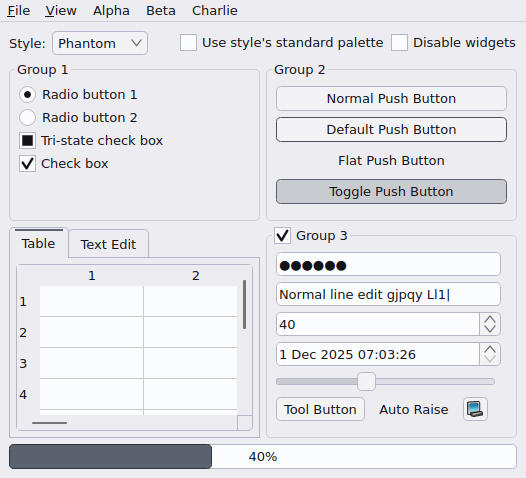
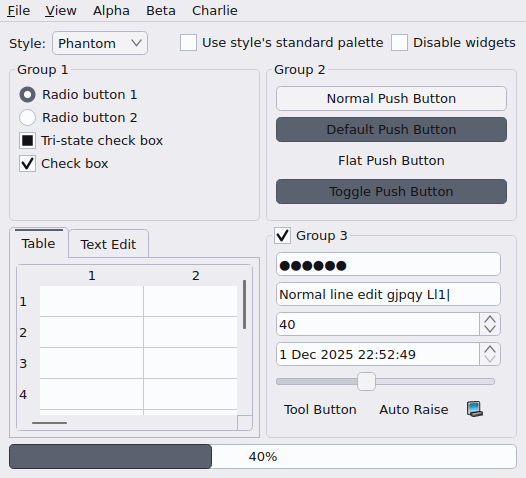
Refine PhantomStyle for closer Windows 11 alignment
- Updated `PE_PanelButtonCommand` to use a cleaner, subtler border and background style, removing the heavy outline on hover unless necessary.
- Enhanced `PE_FrameLineEdit` to include a bottom accent line when focused, mimicking the Windows 11 text field behavior.
- Refined `PE_IndicatorRadioButton` to use correct geometry and colors for checked/unchecked states, aligning with modern radio button designs.
- Increased `Num_SwatchColors` allocation to prevent potential stack smashing issues when adding new color roles.
- Generated updated `screenshot.png` reflecting the latest changes.

diff --git a/src/phantom/phantomstyle.cpp b/src/phantom/phantomstyle.cpp
@@ -321,6 +321,7 @@ enum SwatchColor {
   S_itemView_multiSelection_currentBorder,
   S_itemView_headerOnLine,
   S_scrollbarGutter_disabled,
+  S_control_border_focus,
 
   // Aliases
   S_progressBar = S_highlight,
@@ -333,7 +334,7 @@ enum SwatchColor {
 using Swatchy = SwatchColors::SwatchColor;
 
 enum {
-  Num_SwatchColors = SwatchColors::S_scrollbarGutter_disabled + 1,
+  Num_SwatchColors = SwatchColors::S_control_border_focus + 1 + 20, // Pad for safety
   Num_ShadowSteps = 3,
 };
 
@@ -446,6 +447,8 @@ Q_NEVER_INLINE void PhSwatch::loadFromQPalette(const QPalette& pal) {
       Dc::itemViewMultiSelectionCurrentBorderOf(pal);
   colors[S_itemView_headerOnLine] = Dc::itemViewHeaderOnLineColorOf(pal);
   colors[S_scrollbarGutter_disabled] = colors[S_window];
+  // Windows 11 style focus border
+  colors[S_control_border_focus] = colors[S_highlight];
 
   brushes[S_none] = Qt::NoBrush;
   for (int i = S_none + 1; i < Num_SwatchColors; ++i) {
@@ -1819,31 +1822,29 @@ void PhantomStyle::drawPrimitive(PrimitiveElement elem,
     if (widget && widget->parent() && widget->parent()->inherits("QToolBar"))
       rounding = Ph::ToolBarButton_Rounding;
 
-    Swatchy outline = S_window_outline;
-    Swatchy fill = S_button;
-    Swatchy specular = S_button_specular;
+    Swatchy outline = S_none; // Win11 tool buttons usually flat until hovered
+    Swatchy fill = S_none;
+    Swatchy specular = S_none;
+
     if (isDown) {
       fill = S_button_pressed;
-      specular = S_button_pressed_specular;
+      outline = S_none;
     } else if (isOn) {
       fill = S_highlight_on;
-      specular = S_none;
-      outline = S_highlight;
+      outline = S_none;
     } else if (hasFocus) {
       fill = S_highlight_hover;
-      if (widget && widget->autoFillBackground()) {
-        fill = S_button_specular;
-      }
+      outline = S_none;
     }
-    if (hasFocus) {
-      outline = S_frame_outline;
+
+    // Always provide background if autoFillBackground is on
+    if (widget && widget->autoFillBackground() && fill == S_none) {
+        fill = S_button;
     }
+
     QRect r = option->rect;
     Ph::PSave save(painter);
     Ph::paintBorderedRoundRect(painter, r, rounding, swatch, outline, fill);
-    if (Ph::BorderSpecularOnPanelButton)
-      Ph::paintBorderedRoundRect(painter, r.adjusted(1, 1, -1, -1), rounding,
-                                 swatch, specular, S_none);
     break;
   }
   case PE_IndicatorDockWidgetResizeHandle: {
@@ -1861,18 +1862,17 @@ void PhantomStyle::drawPrimitive(PrimitiveElement elem,
     bool hasFocus = option->state & State_HasFocus;
     bool isEnabled = option->state & State_Enabled;
     const qreal rounding = Ph::LineEdit_Rounding;
-    auto pen = hasFocus ? S_highlight_outline : S_frame_outline;
+    auto pen = S_frame_outline;
     Ph::PSave save(painter);
     Ph::paintBorderedRoundRect(painter, r, rounding, swatch, pen, S_none);
-    save.restore();
-    if (Ph::OverhangShadows && !hasFocus && isEnabled) {
-      // Imperfect when rounded, may leave a gap on left and right. Going
-      // closer would eat into the outline, though.
-      Ph::fillRectEdges(painter,
-                        r.adjusted(qRound(rounding / 2) + 1, 1,
-                                   -(qRound(rounding / 2) + 1), -1),
-                        Qt::TopEdge, 1, swatch.color(S_base_shadow));
+
+    if (hasFocus && isEnabled) {
+        // Win11-style bottom accent line on focus
+        r.setHeight(r.height() + 1); // Extend slightly for the bottom border
+        Ph::fillRectEdges(painter, r.adjusted(0, 0, 0, -1), Qt::BottomEdge, 2, swatch.color(S_control_border_focus));
     }
+
+    save.restore();
     break;
   }
   case PE_PanelLineEdit: {
@@ -1952,31 +1952,33 @@ void PhantomStyle::drawPrimitive(PrimitiveElement elem,
                          option->state & State_KeyboardFocusChange;
     bool isSunken = state & State_Sunken;
     bool isEnabled = state & State_Enabled;
-    Swatchy outlineColor =
-        isHighlighted ? S_highlight_outline : S_frame_outline;
-    Swatchy bgFillColor = isSunken ? S_highlight : S_base;
+    bool isChecked = state & State_On;
+
+    Swatchy outlineColor = isChecked ? S_highlight : S_frame_outline;
+    if (isHighlighted) outlineColor = S_highlight_outline;
+
+    Swatchy bgFillColor = isChecked ? S_highlight : S_base;
+    if (!isEnabled) bgFillColor = S_window; // Disabled bg
+
     QPointF circleCenter(rx + rw / 2.0, ry + rh / 2.0);
-    const qreal lineThickness = 1.0;
-    qreal outlineRadius = (qMin(rw, rh) - lineThickness) / 2.0;
-    qreal fillRadius = outlineRadius - lineThickness / 2.0;
+    const qreal lineThickness = isChecked ? 0.0 : 1.0;
+    qreal outlineRadius = (qMin(rw, rh) - 1.0) / 2.0;
+
     Ph::PSave save(painter);
     painter->setRenderHint(QPainter::Antialiasing);
+
+    // Draw outer circle
     painter->setBrush(swatch.brush(bgFillColor));
-    painter->setPen(swatch.pen(outlineColor));
-    painter->drawEllipse(circleCenter, outlineRadius, outlineRadius);
-    if (Ph::IndicatorShadows && !isSunken && isEnabled) {
-      // Really slow, just a temp demo test
-      painter->setPen(Qt::NoPen);
-      painter->setBrush(swatch.brush(S_base_shadow));
-      QPainterPath path0, path1;
-      path0.addEllipse(circleCenter, fillRadius, fillRadius);
-      path1.addEllipse(circleCenter + QPointF(0, 1.25), fillRadius, fillRadius);
-      QPainterPath path2 = path0 - path1;
-      painter->drawPath(path2);
+    if (isChecked) {
+        painter->setPen(Qt::NoPen);
+    } else {
+        painter->setPen(swatch.pen(outlineColor));
     }
-    if (state & State_On) {
-      Swatchy fgColor = isSunken ? S_highlightedText : S_windowText;
-      qreal checkmarkRadius = outlineRadius / 2.32;
+    painter->drawEllipse(circleCenter, outlineRadius, outlineRadius);
+
+    if (isChecked) {
+      Swatchy fgColor = S_highlightedText;
+      qreal checkmarkRadius = outlineRadius * 0.45;
       painter->setPen(Qt::NoPen);
       painter->setBrush(swatch.brush(fgColor));
       painter->drawEllipse(circleCenter, checkmarkRadius, checkmarkRadius);
@@ -2132,28 +2134,42 @@ void PhantomStyle::drawPrimitive(PrimitiveElement elem,
     bool hasFocus = (option->state & State_HasFocus &&
                      option->state & State_KeyboardFocusChange) || option->state & State_MouseOver;
     const qreal rounding = Ph::PushButton_Rounding;
-    Swatchy outline = S_frame_outline;
+
+    // Windows 11 style:
+    // Normal: Light gray bg, thin darker border
+    // Hover: Slightly lighter bg
+    // Pressed: Darker bg, smaller content (simulated via color here)
+
+    Swatchy outline = S_frame_outline; // Default subtle border
     Swatchy fill = S_button;
-    Swatchy specular = S_button_specular;
-    if (isDown) {
-      fill = S_button_pressed;
-      specular = S_button_pressed_specular;
+
+    if (!isEnabled) {
+        // Disabled state logic (simplified)
+        fill = S_window;
+        outline = S_window_outline;
+    } else if (isDown) {
+        fill = S_button_pressed;
+        outline = S_frame_outline; // Keep border
     } else if (isOn) {
-      fill = S_highlight_on;
-      specular = S_none;
-      outline = S_highlight;
+        fill = S_highlight;
+        outline = S_highlight_outline;
     } else if (hasFocus) {
-      fill = S_highlight_hover;
+        fill = S_highlight_hover; // Hover effect
+        // Windows 11 doesn't usually highlight the border on hover for standard buttons
+        // unless it's the default/accent button.
     }
-    if (hasFocus || isDefault) {
-      outline = S_highlight_outline;
+
+    if (isDefault && isEnabled && !isDown && !isOn) {
+        // Accent button style
+        fill = S_highlight;
+        outline = S_highlight_outline;
+        // If hovered, we might want a lighter accent, but we don't have that swatch yet.
+        // S_highlight_hover is a transparent overlay usually.
     }
+
     QRect r = option->rect;
     Ph::PSave save(painter);
     Ph::paintBorderedRoundRect(painter, r, rounding, swatch, outline, fill);
-    if (Ph::BorderSpecularOnPanelButton)
-      Ph::paintBorderedRoundRect(painter, r.adjusted(1, 1, -1, -1), rounding,
-                                 swatch, specular, S_none);
     break;
   }
   case PE_FrameTabWidget: {
